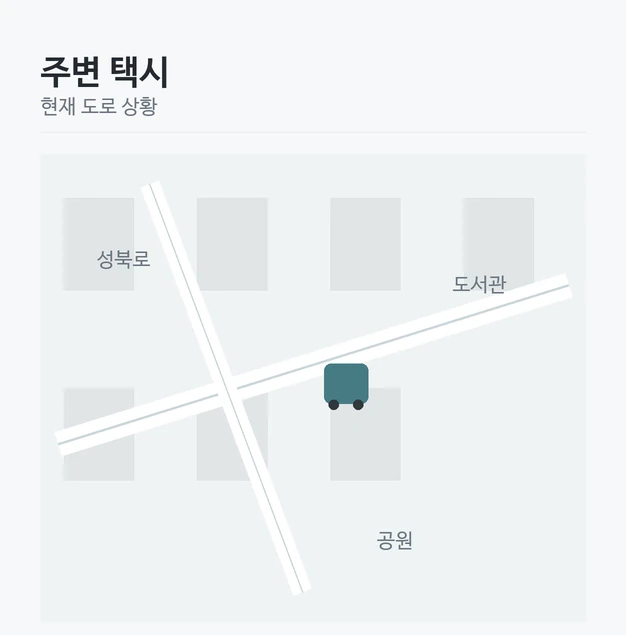
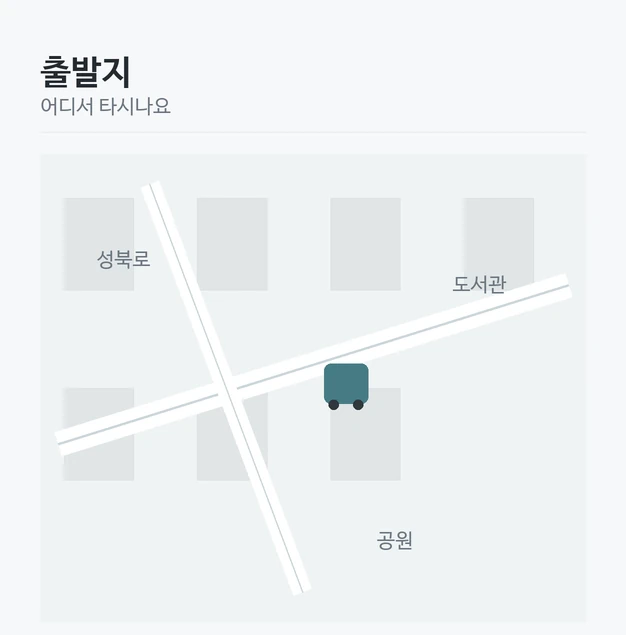
택시 출발지 — 맡은 일이 미끼를 가리키고 있었다
「지금 위치」는 눌러도 아무 일이 없는 미끼인데, 맡은 일 글월이
「출발지를 **지금 위치로** 정해 보세요」였다. 글월을 그대로 따라 읽은
조는 미끼에 단서를 붙이게 되고, 앱시장은 그것을 거짓 단서로 세어 값을
깎았다. 바르게 읽은 쪽이 벌을 받는 셈이다.

맡은 일을 「출발지를 정해 보세요」로 줄이고, 미끼의 이름을
「지도 가운데로」로 갈라 놓았다. 마흔 개를 다시 훑어 같은 덫이
남아 있지 않음을 확인했다.

그림도 고쳤다. 화면 이름은 「출발지」인데 그림 머리글은 「주변 택시 ·
현재 도로 상황」이라고 말하고 있었다. 무엇을 하는 화면인지부터 어긋나면
손댈 데를 찾을 수 없다. 「출발지 · 어디서 타시나요」로 바꿨다.

막히는 까닭도 이 화면에 맞는 말로 적었다 — 「아래쪽 넓은 띠와 왼쪽 아래
작은 단추가 똑같이 생겼습니다」.

마흔 개 × 다섯 붙임새 200판 다시 돌렸다. 테스트와 앱시장 어긋남 없음,
막다른 의뢰 없음. 택시는 막힘 3 → 0, 값 170.

Changed region(s): [[0.0607, 0.0898, 0.2732, 0.1795]]

diff --git a/public/norman/js/jobs.js b/public/norman/js/jobs.js
@@ -79,9 +79,14 @@ export const JOBS = [
     "이게 눌리는 건가요 그냥 표시인가요?"),
 
   J("taxi-start", "택시", "출발지",
-    "출발지를 지금 위치로 정해 보세요.",
-    [{ id: "here", kind: "icon", label: "지금 위치", decoy: true },
-     { id: "pick", kind: "button", label: "출발지 정하기" }],
+    "출발지를 정해 보세요.",
+    // 「지금 위치」는 눌러도 아무 일이 없는 미끼인데, 맡은 일이 「지금
+    // 위치로 정해 보세요」였다. 글월을 그대로 따른 조가 미끼에 단서를
+    // 붙이고 거짓 단서로 값을 깎였다. 이름을 갈라 놓는다.
+    [{ id: "here", kind: "icon", label: "지도 가운데로", decoy: true },
+     { id: "pick", kind: "button", label: "출발지 정하기",
+       stuck: { name: "아래쪽 넓은 띠와 왼쪽 아래 작은 단추가 똑같이 " +
+         "생겼습니다. 둘 중 어느 것이 출발지를 정하는 것인지 알 수 없습니다." } }],
     [{ part: "pick", do: "press" }],
     "둘이 비슷하게 생겨서 어느 쪽을 눌러야 하는지 모르겠어요."),
 

diff --git a/tools/generate_norman_job_assets.py b/tools/generate_norman_job_assets.py
@@ -365,7 +365,9 @@ def map_pin(c):
 
 
 def taxi_start(c):
-    header(c, "주변 택시", "현재 도로 상황")
+    # 화면 이름이 「출발지」인데 그림은 「주변 택시」라고 말하고 있었다.
+    # 무엇을 하는 화면인지부터 어긋나면 조는 손댈 데를 찾지 못한다.
+    header(c, "출발지", "어디서 타시나요")
     map_scene(c, (70, 154, 940, 468), True)
 
 
